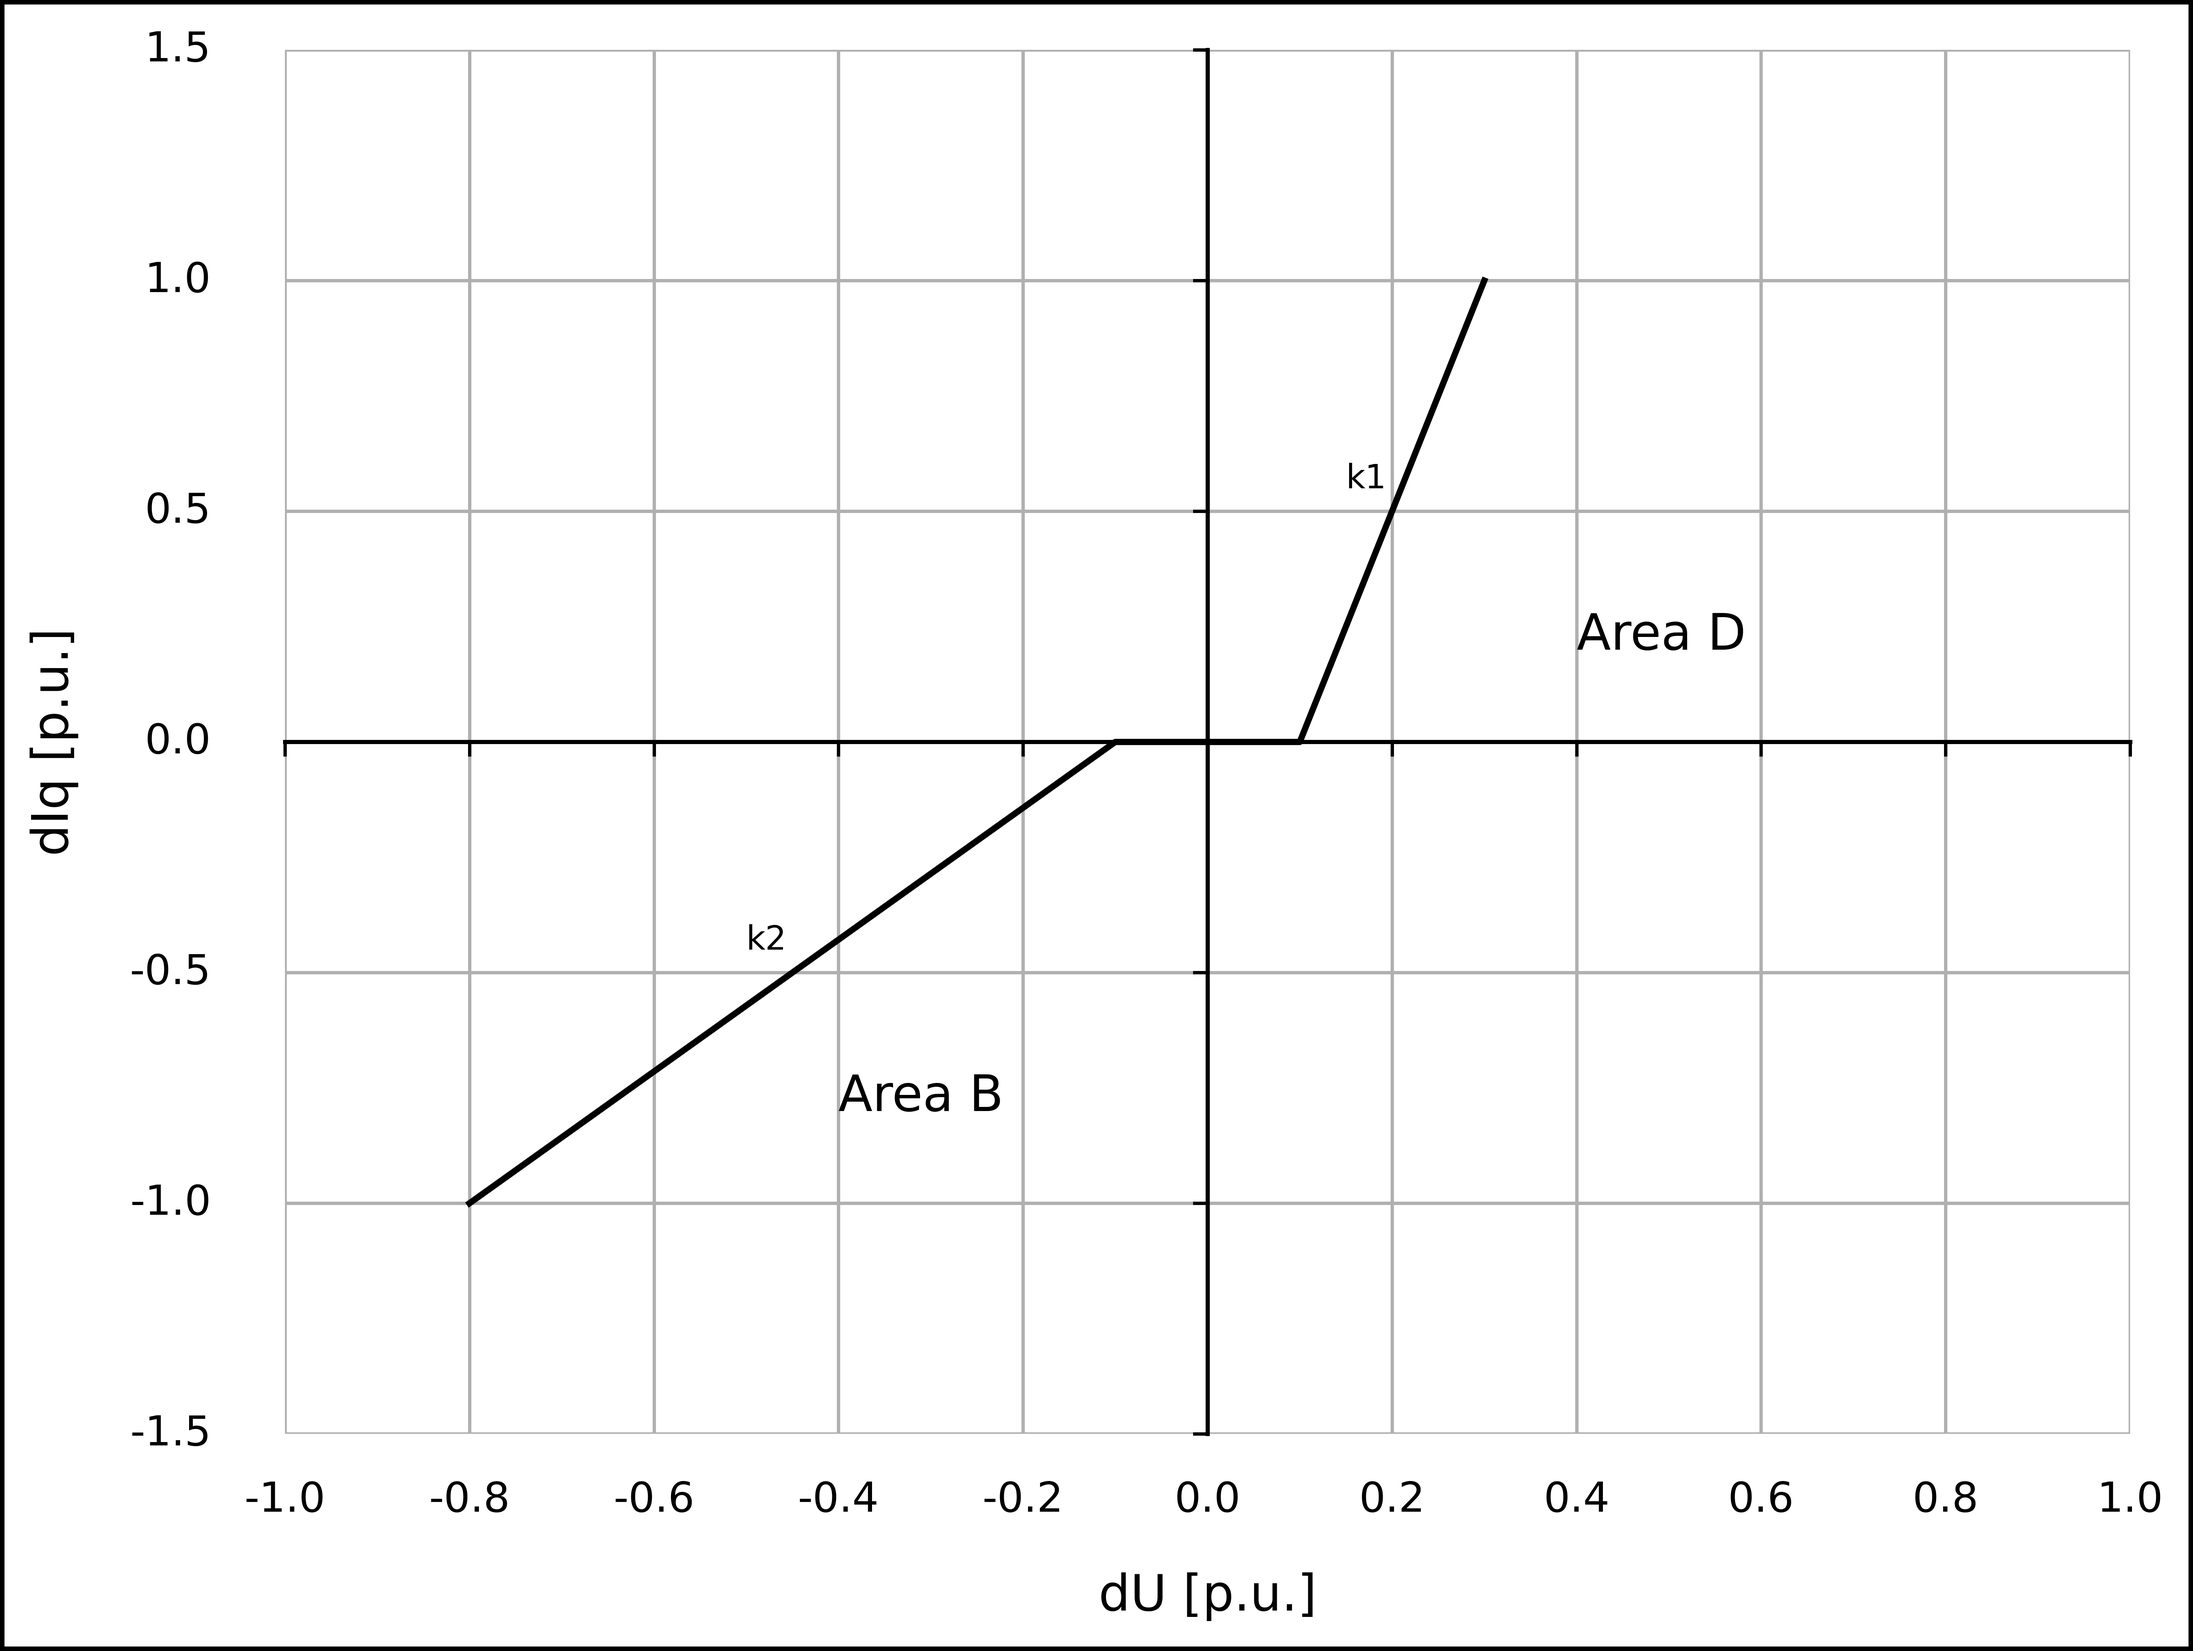
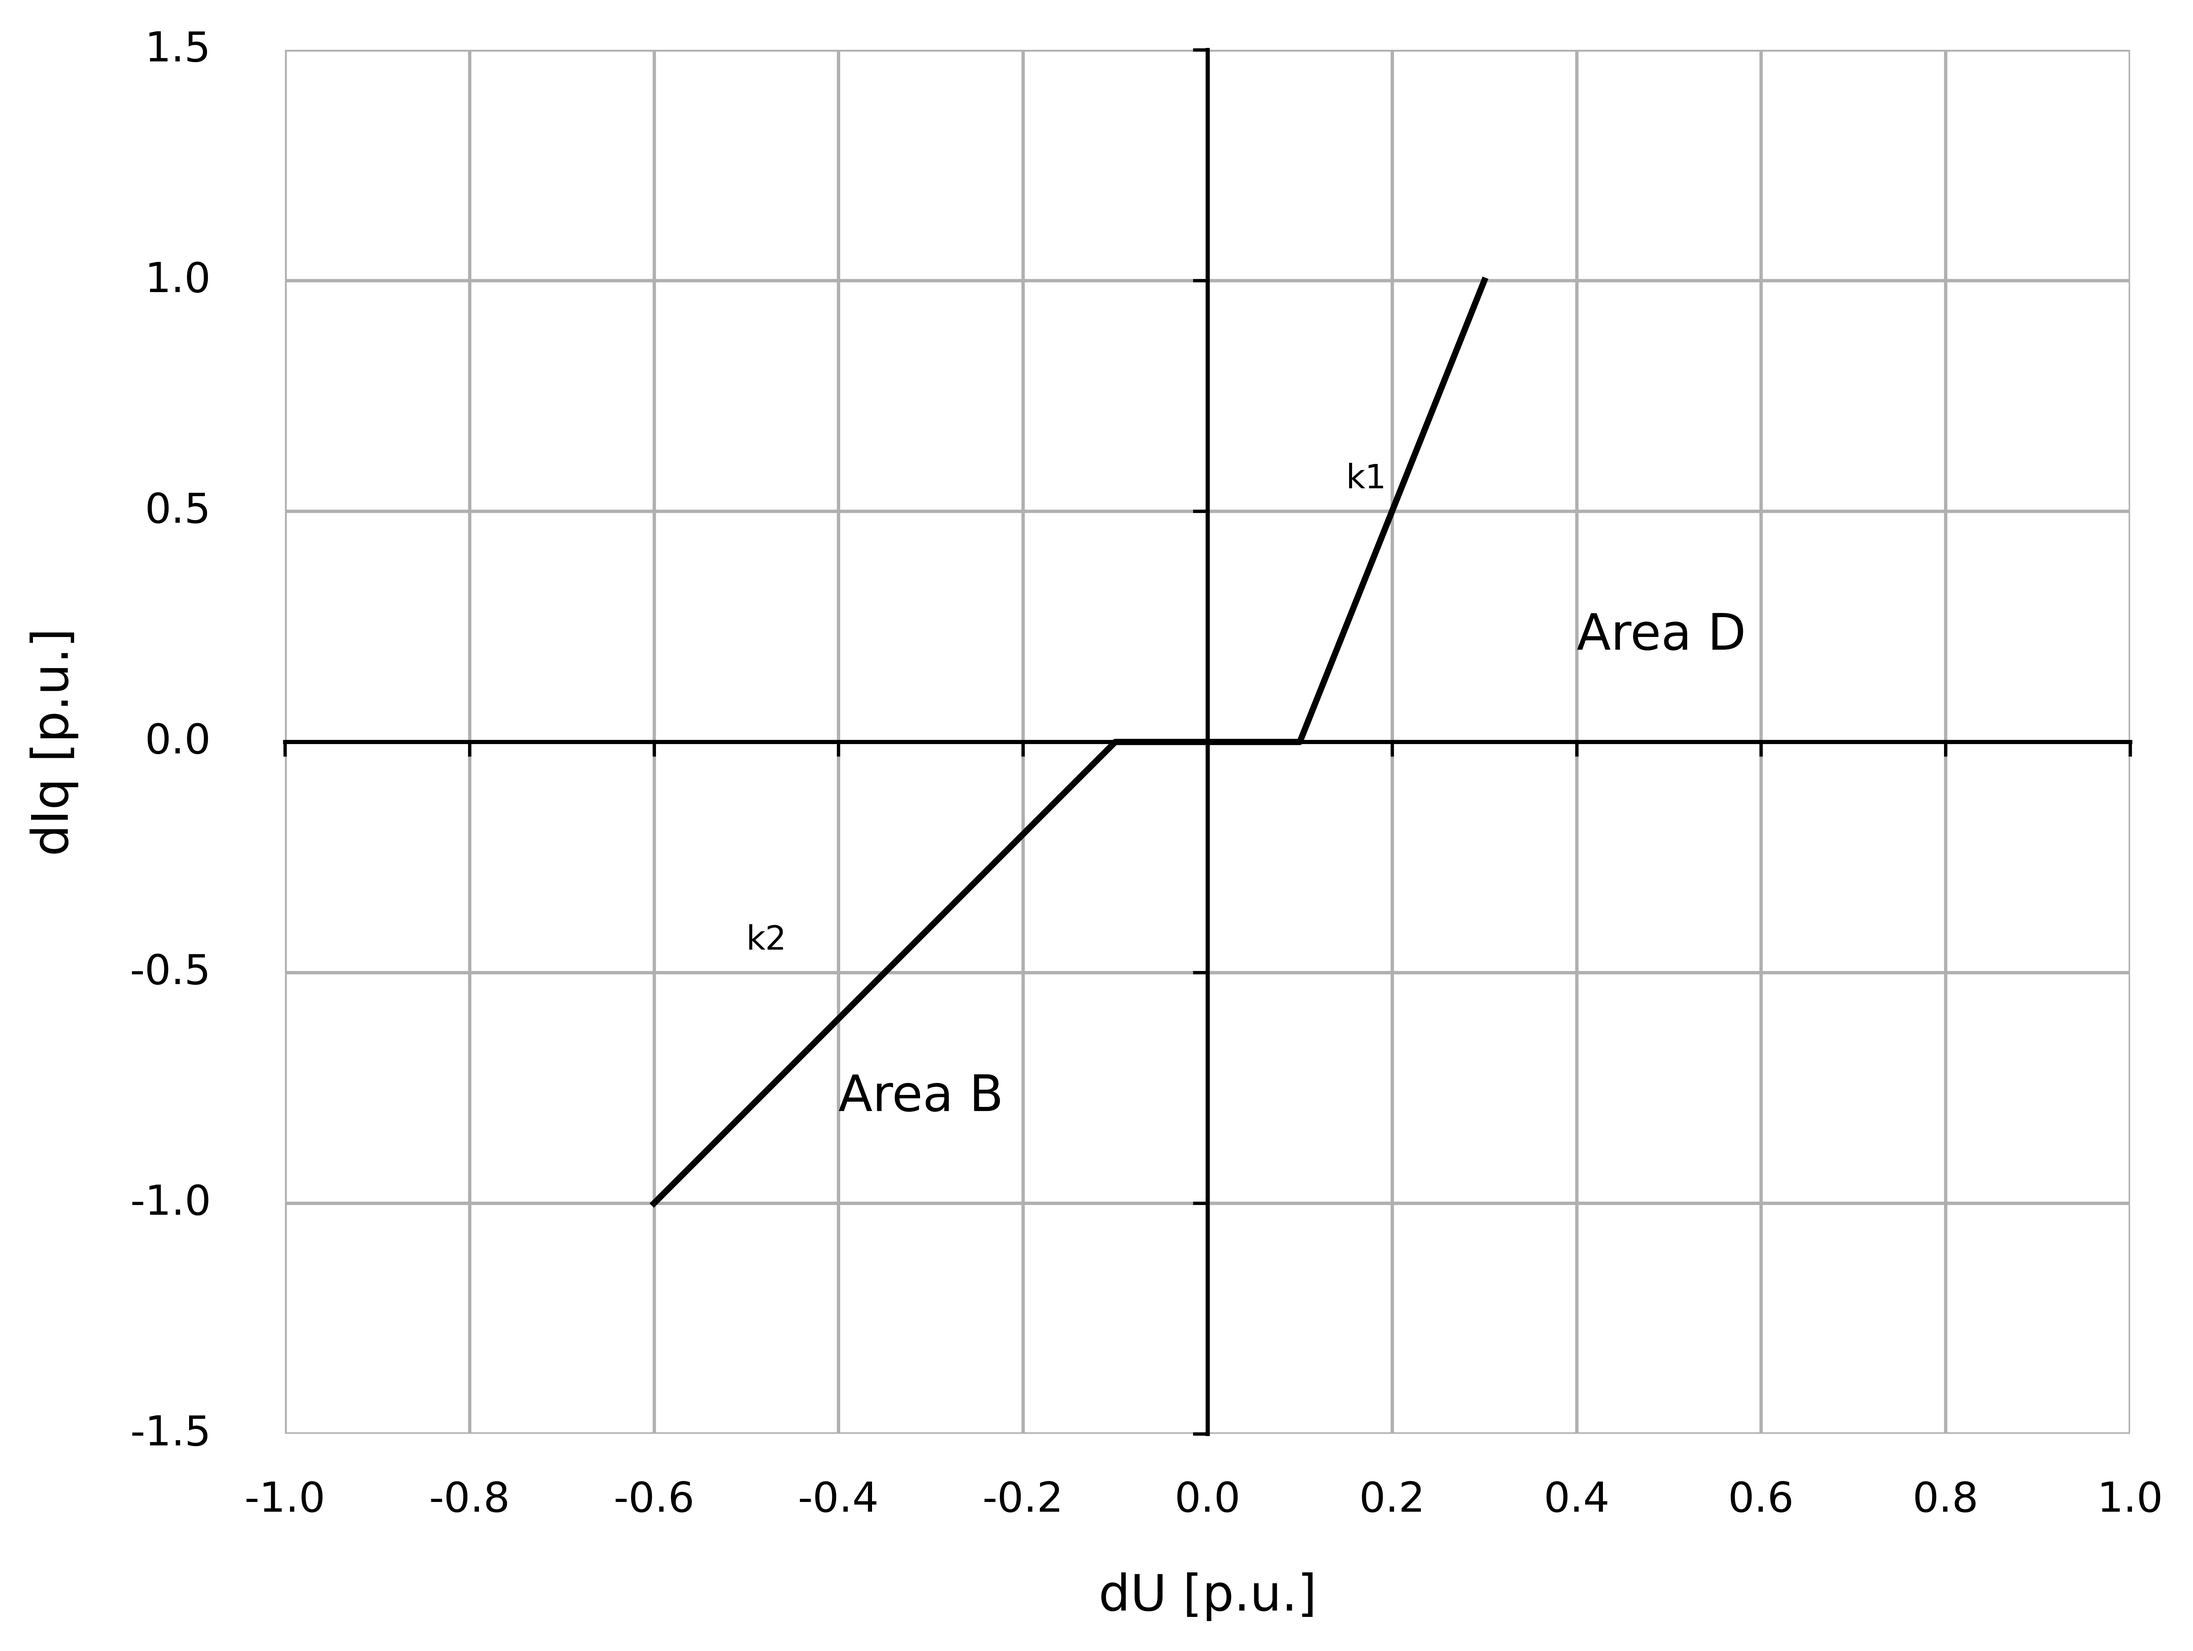
extra figures

diff --git a/code/fig5.py b/code/fig5.py
@@ -2,9 +2,11 @@ import matplotlib.pyplot as plt
 import numpy as np
 from vrt_utils import *
 
+lower_range = 0.90
+
 lvrt_points = np.array([
-    [min_plot_time, 0.85], [0, 0.85], [0, 0.6], [0.15, 0.6],
-    [0.15, 0.8], [0.6, 0.8], [0.6, 0.85], [max_plot_time, 0.85]
+    [min_plot_time, lower_range], [0, lower_range], [0, 0.6], [0.15, 0.6],
+    [0.15, lower_range-0.05], [0.6, lower_range-0.05], [0.6, lower_range], [max_plot_time, lower_range]
 ])
 hvrt_points = np.array([
     [min_plot_time, 1.1], [max_plot_time, 1.1]
@@ -13,25 +15,22 @@ hvrt_points = np.array([
 fig, ax = setup_plot(lvrt_points, hvrt_points)
 lvrt_x, lvrt_y, hvrt_x, hvrt_y = use_transformed_curve(lvrt_points, hvrt_points)
 
-ax.axhspan(0.85, 1.1, color='teal', alpha=0.2, zorder=0)
-ax.text(transform_time([min_plot_time, max_plot_time]).mean(), 0.975,
-        "Continuous Operating Range\nArea A",
-        color='black', fontsize=12, fontweight='bold', ha='center', va='center', zorder=1)
+addAreaA(ax, lower_range, 1.1)
 
 plottingfunc(ax, lvrt_x, lvrt_y, hvrt_x, hvrt_y)
 guidelinesfunc(ax, lvrt_x, lvrt_y, hvrt_x, hvrt_y)
 
 hvrt_y_interp = np.interp(lvrt_x, hvrt_x, hvrt_y)
-mask_b = lvrt_y < 0.85
+mask_b = lvrt_y < lower_range
 if np.any(mask_b):
     fill_between_curves(ax, lvrt_x[mask_b], lvrt_y[mask_b],
-                        np.minimum(hvrt_y_interp[mask_b], 0.85),
+                        np.minimum(hvrt_y_interp[mask_b], lower_range),
                         color='blue', label='Area B', text_offset=(-0.3, -0.05))
 
 ax.text(3, 0.5, "Area C", color='black', fontsize=12, fontweight='bold',
         ha='center', va='center', zorder=2)
 
-addSideArrowLabel(ax, 0.85, 1.1)
+addSideArrowLabel(ax, lower_range, 1.1)
 
 ax.set_xlabel('Time [sec]', fontsize=12)
 ax.set_ylabel('Voltage (U) at Generator Terminal [p.u.]', fontsize=12)
@@ -43,12 +42,11 @@ x_tick_times = np.array([0, 0.15, 0.6, 1, 2, 10, 20])
 ax.set_xticks(transform_time(x_tick_times))
 ax.set_xticklabels([f"{t:g}" for t in x_tick_times])
 
-y_tick_values = np.sort(np.append(np.arange(0, 1.21, 0.1), 0.85))
+y_tick_values = np.sort(np.append(np.arange(0, 1.21, 0.1), lower_range))
 ax.set_yticks(y_tick_values)
 ax.set_yticklabels([f"{v:.2g}" for v in y_tick_values])
 
 clean(ax)
-fig.patch.set_linewidth(2)
-fig.patch.set_edgecolor('black')
+
 plt.tight_layout()
-plt.savefig("../plots/fig5.png", dpi=800, bbox_inches='tight')
+plt.savefig(f"../plots/fig5_0{int(lower_range * 100)}_110.png", dpi=800, bbox_inches='tight')

diff --git a/code/fig6.py b/code/fig6.py
@@ -2,9 +2,11 @@ import matplotlib.pyplot as plt
 import numpy as np
 from vrt_utils import *
 
+lower_range = 0.90
+
 lvrt_points = np.array([
-    [min_plot_time, 0.9], [0, 0.9], [0, 0], [0.15, 0], [0.15, 0.5],
-    [2, 0.85], [20, 0.85], [20, 0.9], [max_plot_time, 0.9]
+    [min_plot_time, lower_range], [0, lower_range], [0, 0], [0.15, 0], [0.15, 0.5],
+    [2, lower_range-0.05], [20, lower_range-0.05], [20, lower_range], [max_plot_time, lower_range]
 ])
 hvrt_points = np.array([
     [min_plot_time, 1.1], [0, 1.1], [0, 1.2], [2, 1.2],
@@ -14,7 +16,7 @@ hvrt_points = np.array([
 fig, ax = setup_plot(lvrt_points, hvrt_points)
 lvrt_x, lvrt_y, hvrt_x, hvrt_y = use_transformed_curve(lvrt_points, hvrt_points)
 
-addAreaA(ax, 0.9, 1.1)
+addAreaA(ax, lower_range, 1.1)
 plottingfunc(ax, lvrt_x, lvrt_y, hvrt_x, hvrt_y)
 guidelinesfunc(ax, lvrt_x, lvrt_y, hvrt_x, hvrt_y)
 
@@ -25,18 +27,15 @@ if np.any(mask_d):
                         hvrt_y[mask_d], color='red', label='Area D')
 
 hvrt_y_interp = np.interp(lvrt_x, hvrt_x, hvrt_y)
-mask_b = lvrt_y < 0.9
+mask_b = lvrt_y < lower_range
 if np.any(mask_b):
     fill_between_curves(ax, lvrt_x[mask_b], lvrt_y[mask_b],
-                        np.minimum(hvrt_y_interp[mask_b], 0.9),
+                        np.minimum(hvrt_y_interp[mask_b], lower_range),
                         color='blue', label='Area B', text_offset=(-1, 0.25))
 
 ax.text(3, 0.7, "Area C", color='black', fontsize=12, fontweight='bold',
         ha='center', va='center', zorder=2)
-ax.text(5, 1, "0.9 < Un < 1.1", color='black', fontsize=12, fontweight='bold',
-        ha='center', va='center', zorder=2)
-
-addSideArrowLabel(ax, 0.9, 1.1)
+addSideArrowLabel(ax, lower_range, 1.1)
 
 ax.set_xlabel('Time [sec]', fontsize=12)
 ax.set_ylabel('Voltage (U) at Generator Terminal [p.u.]', fontsize=12)
@@ -53,7 +52,6 @@ ax.set_yticks(y_tick_values)
 ax.set_yticklabels([f"{v:.2g}" for v in y_tick_values])
 
 clean(ax)
-fig.patch.set_linewidth(2)
-fig.patch.set_edgecolor('black')
+
 plt.tight_layout()
-plt.savefig("../plots/fig6.png", dpi=800, bbox_inches='tight')
+plt.savefig(f"../plots/fig6_0{int(lower_range * 100)}_110.png", dpi=800, bbox_inches='tight')

diff --git a/code/fig7.py b/code/fig7.py
@@ -3,10 +3,12 @@ import matplotlib.pyplot as plt
 import numpy as np
 from vrt_utils import *
 
+lower_range = 0.85
+
 # === LVRT & HVRT Points ===
 lvrt_points = np.array([
-    [min_plot_time, 0.9], [0, 0.9], [0, 0.3], [0.15, 0.3], [0.15, 0.5],
-    [2, 0.85], [20, 0.85], [20, 0.9], [max_plot_time, 0.9]
+    [min_plot_time, lower_range], [0, lower_range], [0, 0.3], [0.15, 0.3], [0.15, 0.5],
+    [2, lower_range-0.05], [20, lower_range-0.05], [20, lower_range], [max_plot_time, lower_range]
 ])
 hvrt_points = np.array([
     [min_plot_time, 1.1], [0, 1.1], [0, 1.2], [2, 1.2],
@@ -18,7 +20,7 @@ fig, ax = setup_plot(lvrt_points, hvrt_points)
 lvrt_x, lvrt_y, hvrt_x, hvrt_y = use_transformed_curve(lvrt_points, hvrt_points)
 
 # === Area A: Normal Operation Band ===
-addAreaA(ax, 0.9, 1.1)
+addAreaA(ax, lower_range, 1.1)
 
 # === Plot VRT Curves ===
 plottingfunc(ax, lvrt_x, lvrt_y, hvrt_x, hvrt_y)
@@ -35,20 +37,19 @@ if np.any(mask_d):
 
 # === Area B: Below LVRT ===
 hvrt_y_interp = np.interp(lvrt_x, hvrt_x, hvrt_y)
-mask_b = lvrt_y < 0.9
+mask_b = lvrt_y < lower_range
 if np.any(mask_b):
     fill_between_curves(ax, lvrt_x[mask_b], lvrt_y[mask_b],
-                        np.minimum(hvrt_y_interp[mask_b], 0.9),
+                        np.minimum(hvrt_y_interp[mask_b], lower_range),
                         color='blue', label='Area B', text_offset=(-1, 0.125))
 
 # === Manual Labels ===
 ax.text(3, 0.7, "Area C", color='black', fontsize=12, fontweight='bold',
         ha='center', va='center', zorder=2)
-ax.text(5, 1, "0.9 < Un < 1.1", color='black', fontsize=12, fontweight='bold',
-        ha='center', va='center', zorder=2)
+
 
 # === Side Arrows ===
-addSideArrowLabel(ax, 0.9, 1.1)
+addSideArrowLabel(ax, lower_range, 1.1)
 
 # === Final Axes Setup ===
 ax.set_xlabel('Time [sec]', fontsize=12)
@@ -68,8 +69,6 @@ ax.set_yticklabels([f"{v:.2g}" for v in y_tick_values])
 
 # === Cleanup ===
 clean(ax)
-fig.patch.set_linewidth(2)
-fig.patch.set_edgecolor('black')
 
 plt.tight_layout()
-plt.savefig("../plots/fig7.png", dpi=800, bbox_inches='tight')
+plt.savefig(f"../plots/fig7_0{int(lower_range * 100)}_110.png", dpi=800, bbox_inches='tight')

diff --git a/code/fig1.py b/code/fig1.py
@@ -2,9 +2,11 @@ import matplotlib.pyplot as plt
 import numpy as np
 from vrt_utils import *
 
+lower_range = 0.85
+
 lvrt_points = np.array([
     [min_plot_time, 1.0], [0, 1.0], [0, 0], [0.15, 0],
-    [2, 0.85], [20, 0.85], [20, 0.9], [max_plot_time, 0.9]
+    [2, lower_range-0.05], [20, lower_range-0.05], [20, lower_range], [max_plot_time, lower_range]
 ])
 hvrt_points = np.array([
     [min_plot_time, 1.0], [0, 1.0], [0, 1.2], [2, 1.2],
@@ -14,7 +16,7 @@ hvrt_points = np.array([
 fig, ax = setup_plot(lvrt_points, hvrt_points)
 lvrt_x, lvrt_y, hvrt_x, hvrt_y = use_transformed_curve(lvrt_points, hvrt_points)
 
-addAreaA(ax, 0.9, 1.1)
+addAreaA(ax, lower_range, 1.1)
 plottingfunc(ax, lvrt_x, lvrt_y, hvrt_x, hvrt_y)
 guidelinesfunc(ax, lvrt_x, lvrt_y, hvrt_x, hvrt_y)
 
@@ -25,15 +27,15 @@ if np.any(mask_d):
                         hvrt_y[mask_d], color='red', label='Area D')
 
 hvrt_y_interp = np.interp(lvrt_x, hvrt_x, hvrt_y)
-mask_b = lvrt_y < 0.9
+mask_b = lvrt_y < lower_range
 if np.any(mask_b):
     fill_between_curves(ax, lvrt_x[mask_b], lvrt_y[mask_b],
-                        np.minimum(hvrt_y_interp[mask_b], 0.9),
+                        np.minimum(hvrt_y_interp[mask_b], lower_range),
                         color='blue', label='Area B', text_offset=(-1.1, 0.05))
 
 ax.text(3, 0.5, "Area C", color='black', fontsize=12, fontweight='bold',
         ha='center', va='center', zorder=2)
-addSideArrowLabel(ax, 0.9, 1.1)
+addSideArrowLabel(ax, lower_range, 1.1)
 
 ax.set_xlabel('Time [sec]', fontsize=12)
 ax.set_ylabel('Voltage (U) at Generator Terminal [p.u.]', fontsize=12)
@@ -50,7 +52,8 @@ ax.set_yticks(y_tick_values)
 ax.set_yticklabels([f"{v:.2g}" for v in y_tick_values])
 
 clean(ax)
-fig.patch.set_linewidth(2)
-fig.patch.set_edgecolor('black')
+
+
 plt.tight_layout()
-plt.savefig("../plots/fig1.png", dpi=800, bbox_inches='tight')
+
+plt.savefig(f"../plots/fig1_0{int(lower_range * 100)}_110.png", dpi=800, bbox_inches='tight')

diff --git a/code/fig3.py b/code/fig3.py
@@ -1,12 +1,13 @@
 #fig3.py
 
 import matplotlib.pyplot as plt
+drop = 51
 
 # === Create the figure and axis ===
 fig, ax = plt.subplots(figsize=(8, 5))
 
 # === Data points ===
-x_points = [49, 50.5, 52, 52, 52.5]
+x_points = [49, drop, 52, 52, 52.5]
 y_points = [100, 100, 25, 0, 0]
 ax.plot(x_points, y_points, color='black', linewidth=2)
 
@@ -16,7 +17,7 @@ ax.set_ylim(0, 120)
 
 # === Labels and title ===
 ax.set_xlabel("System Frequency [Hz]", fontsize=12)
-ax.set_ylabel("% of Power Output when f > 50.5 Hz", fontsize=12)
+ax.set_ylabel(f"% of Power Output when f > {drop} Hz", fontsize=12)
 ax.set_title("Power Curtailment during Over-Frequency", fontsize=14, fontweight='bold')
 
 # === Grid: Horizontal lines only ===
@@ -35,10 +36,8 @@ for spine in ['top', 'right']:
 for spine in ['left', 'bottom']:
     ax.spines[spine].set_linewidth(1.0)
 
-# === Add rectangular frame around the figure (not just plot) ===
-fig.patch.set_linewidth(2)
-fig.patch.set_edgecolor('black')
+
 
 # === Save the figure ===
 plt.tight_layout()
-plt.savefig("../plots/fig3.png", dpi=800, bbox_inches='tight')
+plt.savefig(f"../plots/fig3_{int(drop*10)}.png", dpi=800, bbox_inches='tight')

diff --git a/code/fig2.py b/code/fig2.py
@@ -6,7 +6,7 @@ import matplotlib.pyplot as plt
 fig, ax = plt.subplots(figsize=(8, 6))
 
 # Plot the given line
-x_points = [-0.8, -0.1, 0.1, 0.3]
+x_points = [-0.6, -0.1, 0.1, 0.3]
 y_points = [-1, 0, 0, 1]
 ax.plot(x_points, y_points, color='black')
 
@@ -87,7 +87,6 @@ ax.text(0.15, 0.55, 'k1', fontsize=8)
 ax.text(-0.5, -0.45, 'k2', fontsize=8)
 
 # Set a visible rectangle frame around the entire figure (including labels)
-fig.patch.set_linewidth(2)
-fig.patch.set_edgecolor('black')
+
 
 plt.savefig("../plots/fig2.png", dpi=800, bbox_inches='tight')
